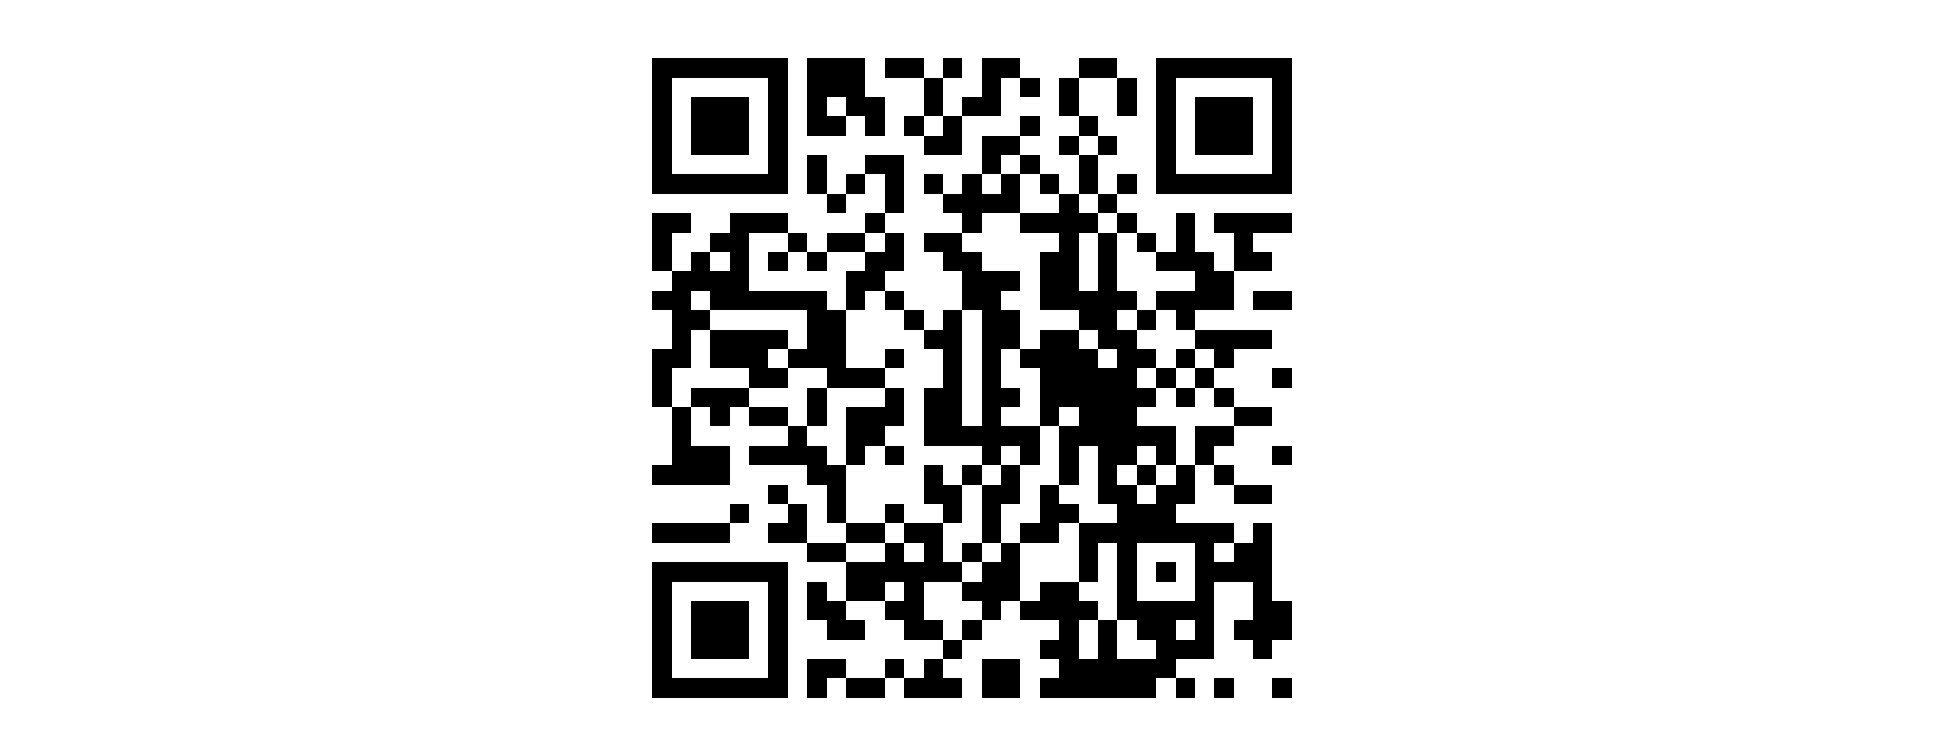
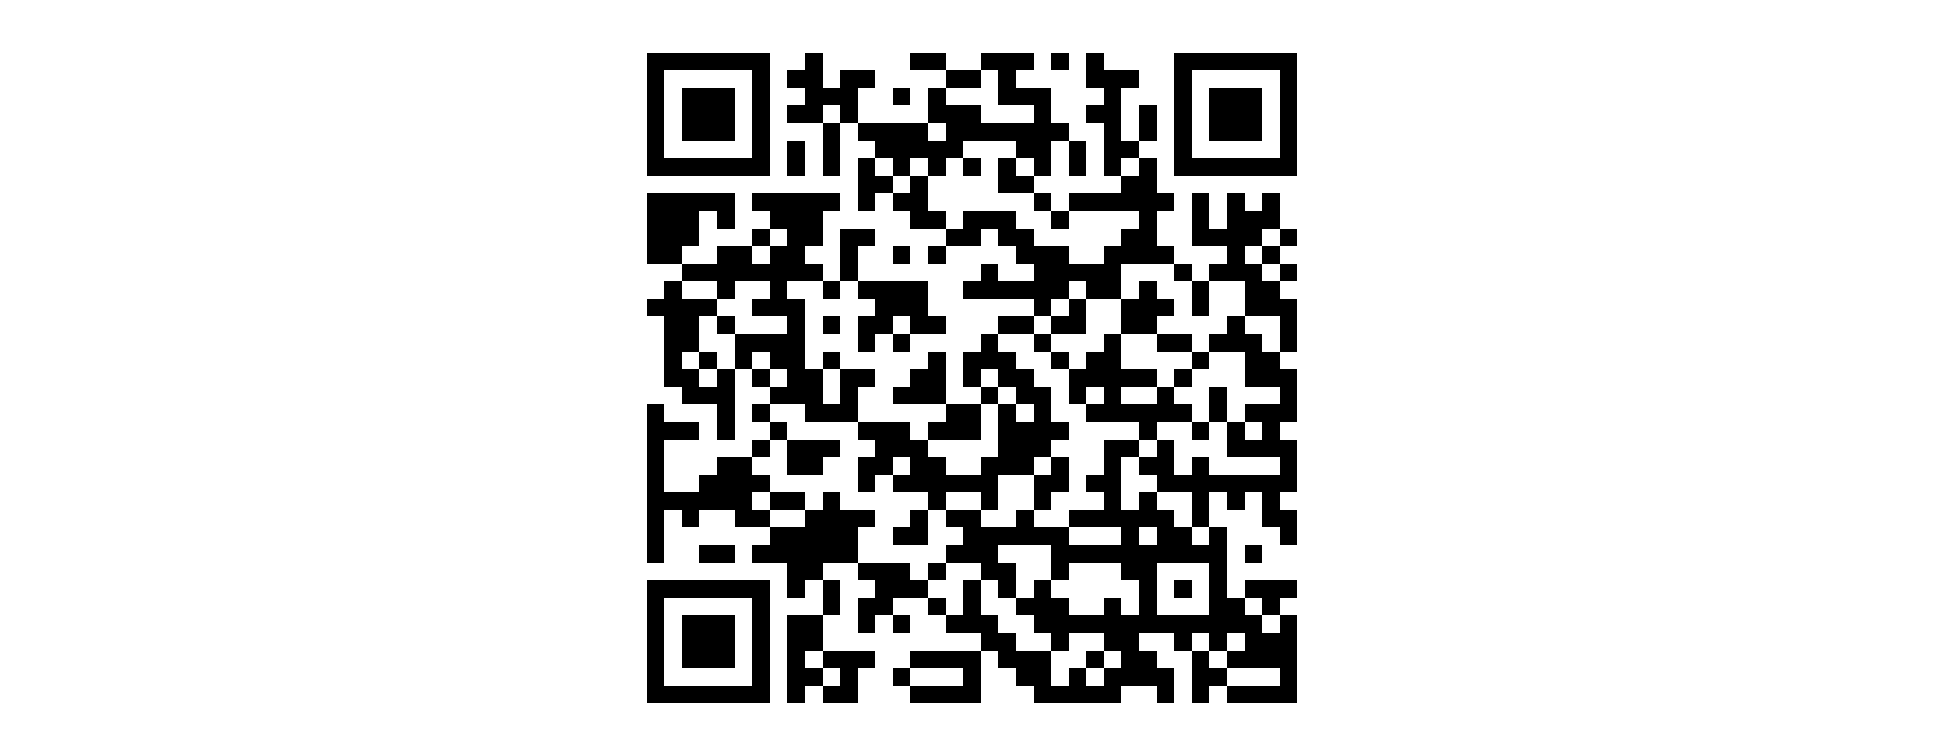
updating CEA slides

Changed region(s): [[0.3086, 0.0608, 0.679, 0.9431]]

diff --git a/README.md b/README.md
@@ -4,4 +4,4 @@ Slides (JMP-update): [html](https://raw.githack.com/hans-mtz/tax_evasion_product
 
 Slides (JMP): [html](https://raw.githack.com/hans-mtz/tax_evasion_productivity/main/Slides/Tax_Prod.html)
 
-Slides (CEA): [html](https://raw.githack.com/hans-mtz/tax_evasion_productivity/main/Slides/CEA-20233.html)
+Slides (CEA): [html](https://raw.githack.com/hans-mtz/tax_evasion_productivity/main/Slides/CEA-2023.html)
